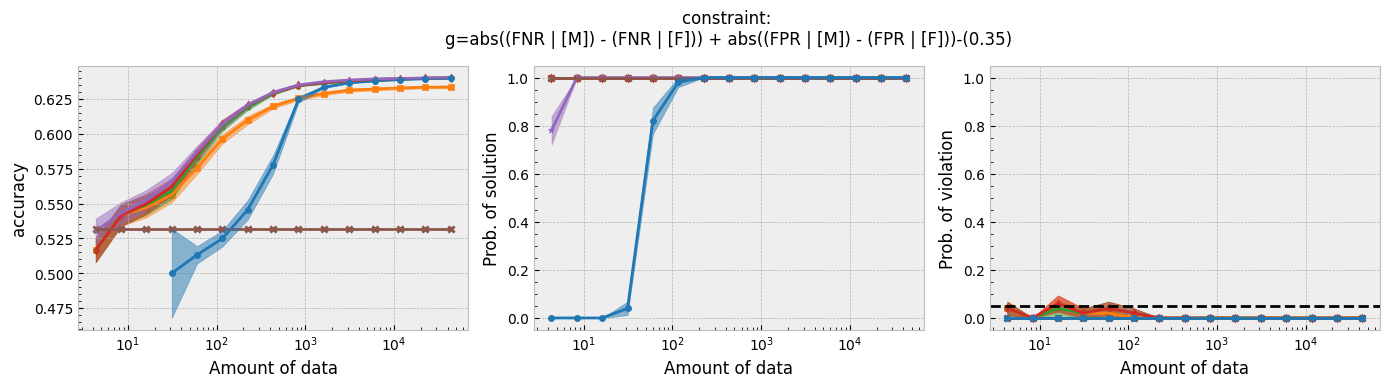
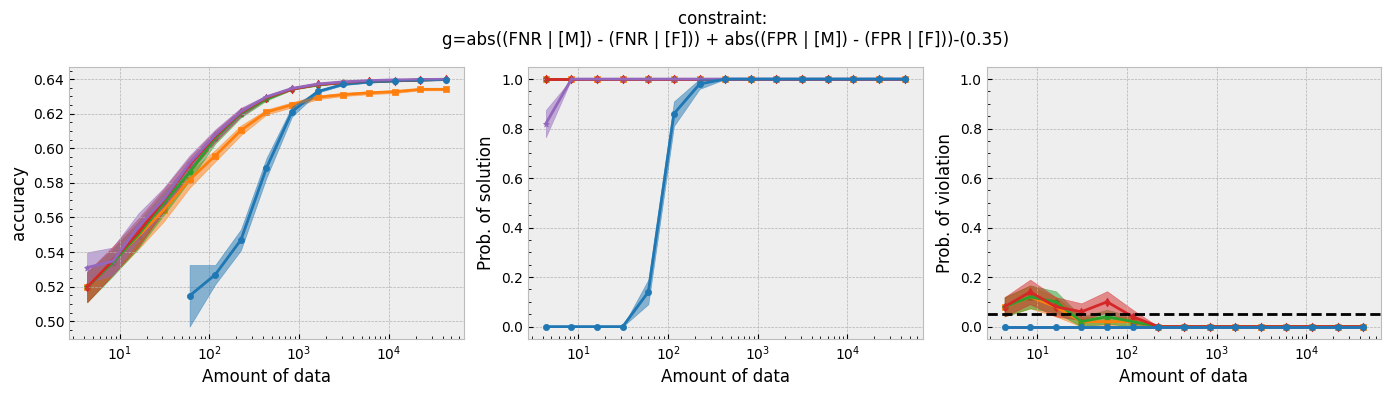
remove random classifier from gpa tutorial

diff --git a/_tutorials/science_GPA_tutorial.md b/_tutorials/science_GPA_tutorial.md
@@ -162,7 +162,7 @@ Running this code should print out that the five spec files have been created.
 <div class="container p-3 my-2 border" style="background-color: #f3f4fc;">
 <h3 id="experiment"> Running a Seldonian Experiment </h3>
 <p>
-To produce the three plots, we will run a Seldonian Experiment using a quasi-Seldonian model, a baseline logistic regression model, and a Fairlearn model with three different values of epsilon (0.01,0.1,1.0) in the constraint in order to match Thomas et al. (2019). As a sanity check, we also included a random classifier baseline model in our experiment. We used the same performance metric as Thomas et al. (2019), deterministic accuracy, i.e, $1-\frac{1}{m}\sum_{i=1}^{m}(\hat{y}_i(\theta,X) \neq Y_i)$, where $m$ is the number of data points in the entire dataset, $Y_i$ is the label for the $i$th data point and $\hat{y}_i(\theta,X_i)$ is the model prediction for the $i$th data point, given the data point $X_i$ and the model parameters $\theta$. Here is the code we used to produce the plot for disparate impact: 
+To produce the three plots, we will run a Seldonian Experiment using a quasi-Seldonian model, a baseline logistic regression model, and a Fairlearn model with three different values of epsilon (0.01,0.1,1.0) in the constraint in order to match Thomas et al. (2019). We used the same performance metric as Thomas et al. (2019), deterministic accuracy, i.e, $1-\frac{1}{m}\sum_{i=1}^{m}(\hat{y}_i(\theta,X_i) \neq Y_i)$, where $m$ is the number of data points in the entire dataset, $Y_i$ is the label for the $i$th data point and $\hat{y}_i(\theta,X_i)$ is the model prediction for the $i$th data point, given the data point $X_i$ and the model parameters $\theta$. Here is the code we used to produce the plot for disparate impact: 
 </p>
 
 <div>
@@ -180,8 +180,6 @@ from seldonian.utils.io_utils import load_pickle
 from sklearn.metrics import log_loss,accuracy_score
 
 from experiments.baselines.logistic_regression import BinaryLogisticRegressionBaseline
-from experiments.baselines.random_classifiers import (
-    UniformRandomClassifierBaseline)
 
 if __name__ == "__main__":
     # Parameter setup
@@ -242,8 +240,6 @@ if __name__ == "__main__":
 
     # # Baseline models
     if run_experiments:
-        plot_generator.run_baseline_experiment(
-            baseline_model=UniformRandomClassifierBaseline(),verbose=True)
 
         plot_generator.run_baseline_experiment(
             baseline_model=BinaryLogisticRegressionBaseline(),verbose=True)
@@ -311,7 +307,7 @@ Running the script for each constraint will produce the following plots:
         <img src="{{ "/assets/img/gpa_tutorial/equalized_odds_0.35_accuracy.png" | relative_url}}" class="img-fluid mt-2" style="width: 90%"  alt="Equalized odds"> 
         <img src="{{ "/assets/img/gpa_tutorial/equal_opportunity_0.2_accuracy.png" | relative_url}}" class="img-fluid mt-2" style="width: 90%"  alt="Equal opportunity"> 
         <img src="{{ "/assets/img/gpa_tutorial/predictive_equality_0.2_accuracy.png" | relative_url}}" class="img-fluid mt-2" style="width: 90%"  alt="Predictive equality"> 
-        <figcaption align="left"> <b>Figure 1</b> - The three plots of a Seldonian Experiment, accuracy (left), solution rate (middle) and failure rate (right), for five different fairness constraints enforced independently on the GPA classification dataset considered by Thomas et al. (2019). The colored points and bands in each panel show the mean standard error over 50 trials. Each row of plots is an experiment for a different fairness constraint. From top to bottom: disparate impact, demographic parity, equalized odds, equal opportunity, predictive equality. The legend in the bottom panel applies to all five panels. A quasi-Seldonian algorithm (qsa, blue) is compared to a logistic regression baseline (magenta) and a random classifier (brown), as well as a Fairlearn model enforcing the constraints above with three different values of the group disparity threshold, $\epsilon$: 0.01 (orange), 0.1 (green), and 1.0 (red). Note that the vertical axis range is [0,1] for failure rate on all subplots, whereas Thomas et al. (2019), Figure 3 shows a smaller range that varies for the different constraints. </figcaption>
+        <figcaption align="left"> <b>Figure 1</b> - The three plots of a Seldonian Experiment, accuracy (left), solution rate (middle) and failure rate (right), for five different fairness constraints enforced independently on the GPA classification dataset considered by Thomas et al. (2019). The colored points and bands in each panel show the mean standard error over 50 trials. Each row of plots is an experiment for a different fairness constraint. From top to bottom: disparate impact, demographic parity, equalized odds, equal opportunity, predictive equality. The legend in the bottom panel applies to all five panels. A quasi-Seldonian algorithm (qsa, blue) is compared to a logistic regression baseline (magenta), as well as a Fairlearn model enforcing the constraints above with three different values of the group disparity threshold, $\epsilon$: 0.01 (orange), 0.1 (green), and 1.0 (red). Note that the vertical axis range is [0,1] for failure rate on all subplots, whereas Thomas et al. (2019), Figure 3 shows a smaller range that varies for the different constraints. </figcaption>
     </figure>
 </div>  
 <p>
